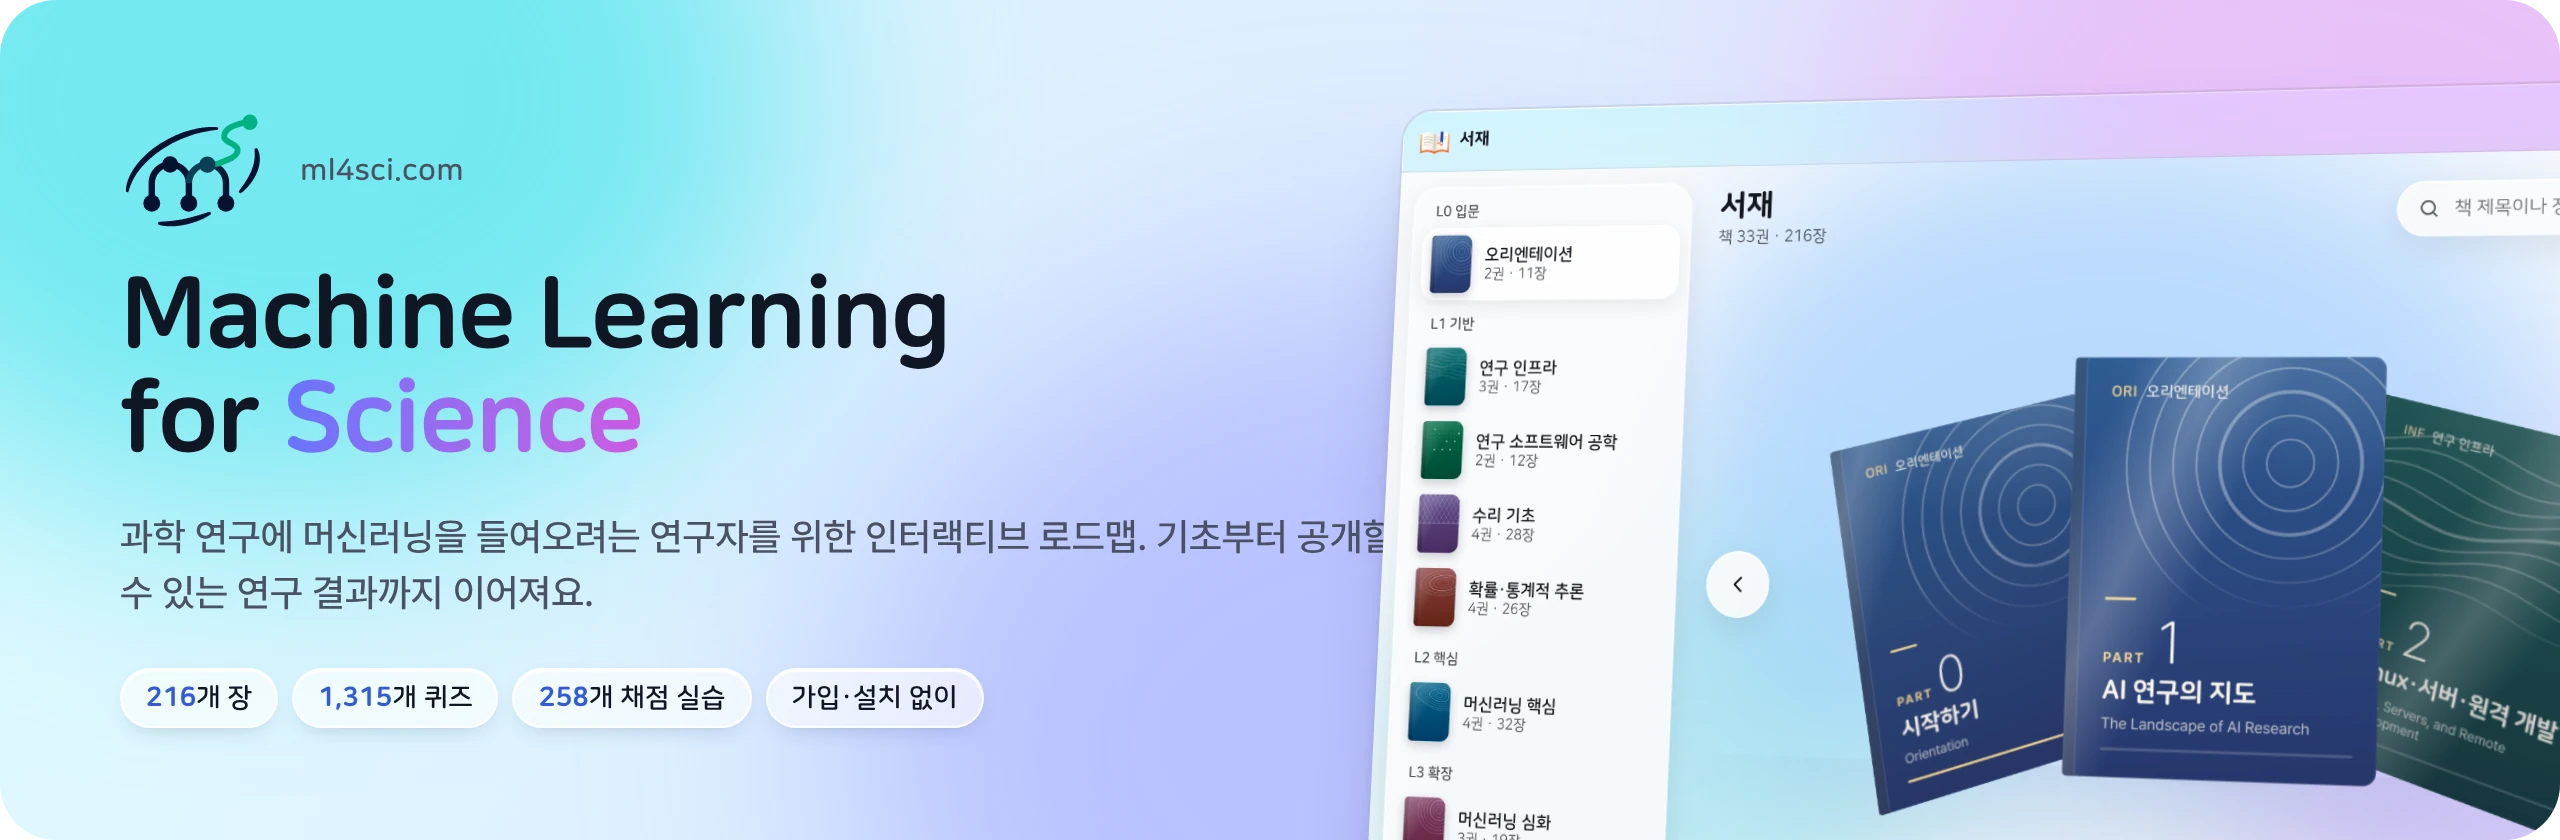
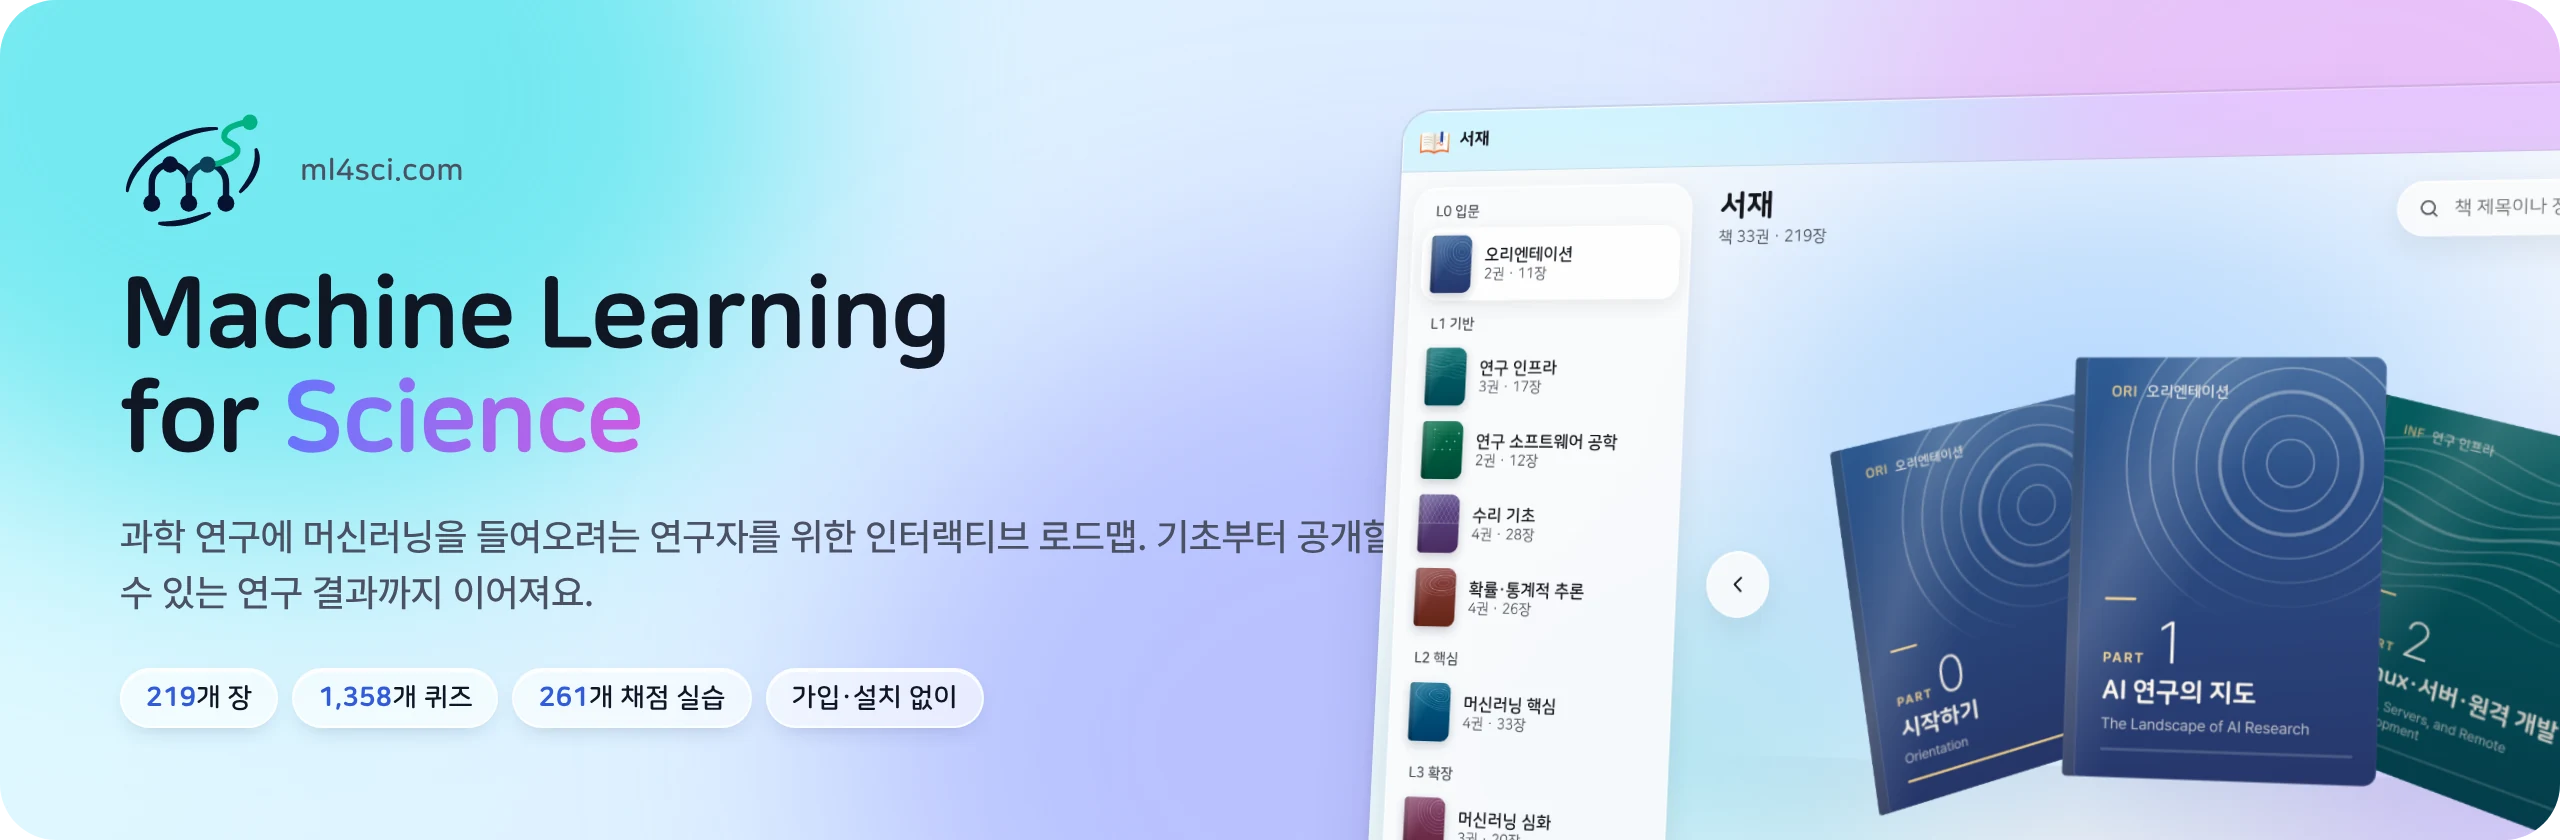
docs: update counts to 219 chapters, 1,358 quiz questions and 261 exercises

diff --git a/README.ko.md b/README.ko.md
@@ -11,9 +11,9 @@
 
 <p>
   <a href="https://ml4sci.com"><img alt="ml4sci.com에서 읽기" src="https://img.shields.io/badge/%EC%98%A8%EB%9D%BC%EC%9D%B8%EC%97%90%EC%84%9C%20%EC%9D%BD%EA%B8%B0-ml4sci.com-4f46e5?logo=bookstack&logoColor=white"></a>
-  <img alt="216개 장" src="https://img.shields.io/badge/%EC%9E%A5-216%EA%B0%9C-0284c7">
-  <img alt="퀴즈 1,315문항" src="https://img.shields.io/badge/%ED%80%B4%EC%A6%88-1%2C315%EB%AC%B8%ED%95%AD-7c3aed">
-  <img alt="자동 채점 실습 258개" src="https://img.shields.io/badge/%EC%9E%90%EB%8F%99%20%EC%B1%84%EC%A0%90%20%EC%8B%A4%EC%8A%B5-258%EA%B0%9C-059669?logo=python&logoColor=white">
+  <img alt="219개 장" src="https://img.shields.io/badge/%EC%9E%A5-219%EA%B0%9C-0284c7">
+  <img alt="퀴즈 1,358문항" src="https://img.shields.io/badge/%ED%80%B4%EC%A6%88-1%2C358%EB%AC%B8%ED%95%AD-7c3aed">
+  <img alt="자동 채점 실습 261개" src="https://img.shields.io/badge/%EC%9E%90%EB%8F%99%20%EC%B1%84%EC%A0%90%20%EC%8B%A4%EC%8A%B5-261%EA%B0%9C-059669?logo=python&logoColor=white">
   <br>
   <img alt="브라우저에서 실행" src="https://img.shields.io/badge/%EC%8B%A4%ED%96%89-%EB%B8%8C%EB%9D%BC%EC%9A%B0%EC%A0%80%EC%97%90%EC%84%9C-0f766e?logo=webassembly&logoColor=white">
   <img alt="가입 필요 없음" src="https://img.shields.io/badge/%EA%B0%80%EC%9E%85-%ED%95%84%EC%9A%94%20%EC%97%86%EC%9D%8C-d97706">
@@ -57,8 +57,8 @@
 |---|---|---|
 | **1&nbsp;·&nbsp;읽기** | 수식과 그림이 함께 있는 본문을 읽어요. 차례가 지금 읽는 곳을 따라와요. | `학습 목표 → 개념 → 실습 → 실패 사례 → 통과 기준` |
 | **2&nbsp;·&nbsp;만져&nbsp;보기** | 슬라이더와 실시간 그래프로 증명을 읽기 전에 먼저 감을 잡아요. | 본문 곳곳의 인터랙티브 그림 |
-| **3&nbsp;·&nbsp;코드** | 내장 편집기에서 Python을 짜고 *채점*을 누르면 테스트마다 통과 여부가 나와요. | 연습문제 258개, [Pyodide](https://pyodide.org)로 실행 |
-| **4&nbsp;·&nbsp;퀴즈** | 틀린 답마다 어떤 오해에서 나왔는지 짚어 주고, 틀린 문제는 복습 목록으로 다시 돌아와요. | 퀴즈 1,315문항과 복습 대기열 |
+| **3&nbsp;·&nbsp;코드** | 내장 편집기에서 Python을 짜고 *채점*을 누르면 테스트마다 통과 여부가 나와요. | 연습문제 261개, [Pyodide](https://pyodide.org)로 실행 |
+| **4&nbsp;·&nbsp;퀴즈** | 틀린 답마다 어떤 오해에서 나왔는지 짚어 주고, 틀린 문제는 복습 목록으로 다시 돌아와요. | 퀴즈 1,358문항과 복습 대기열 |
 
 ## ✨ 특징
 
@@ -68,7 +68,7 @@
 
 | | |
 |---|---|
-| 🧭 **장 모음이 아니라 로드맵** | 7단계 레이어에 12개 분야, 33부, 216개 장이 놓여 있어요. 장마다 먼저 읽을 장이 정해져 있어서 다음에 뭘 읽을지 늘 알 수 있어요. |
+| 🧭 **장 모음이 아니라 로드맵** | 7단계 레이어에 12개 분야, 33부, 219개 장이 놓여 있어요. 장마다 먼저 읽을 장이 정해져 있어서 다음에 뭘 읽을지 늘 알 수 있어요. |
 | 🐍 **브라우저에서 돌아가는 Python** | 코드 셀이 그 자리에서 Pyodide로 실행돼요(NumPy, SciPy, pandas, matplotlib, scikit-learn). PyTorch와 GPU 예제는 복사 단추와 함께 읽기 전용으로 보여 주고, 장마다 내려받는 실습 파일로 내 컴퓨터에서 돌려 볼 수 있어요. |
 | ✅ **자동 채점 연습문제** | 내장 코드 편집기에 *실행*과 *채점* 단추가 있고, 테스트마다 결과를 보여 줘요. 장의 실습 파일은 `.zip`으로도 받을 수 있어요. |
 | 🧠 **이유까지 알려 주는 퀴즈** | 틀린 답마다 그 밑에 깔린 오해를 설명해 주고, 틀린 문제는 복습 목록에 모여요. |
@@ -116,7 +116,7 @@
 
 ## 📈 진행 상황
 
-**1.0 버전이 한국어와 영어로 공개돼 있어요.** 216개 장, 퀴즈 1,315문항, 자동 채점 연습문제 258개를 두 언어 모두에서 볼 수 있어요. 책은 계속 다듬고 있어요. 장마다 검토하고 고치며, 제보받은 오류는 그 자리에서 바로잡아요.
+**1.0 버전이 한국어와 영어로 공개돼 있어요.** 219개 장, 퀴즈 1,358문항, 자동 채점 연습문제 261개를 두 언어 모두에서 볼 수 있어요. 책은 계속 다듬고 있어요. 장마다 검토하고 고치며, 제보받은 오류는 그 자리에서 바로잡아요.
 
 ## ❓ 자주 묻는 질문
 

diff --git a/README.md b/README.md
@@ -11,9 +11,9 @@
 
 <p>
   <a href="https://ml4sci.com/en/"><img alt="Read online at ml4sci.com" src="https://img.shields.io/badge/read%20online-ml4sci.com-4f46e5?logo=bookstack&logoColor=white"></a>
-  <img alt="216 chapters" src="https://img.shields.io/badge/chapters-216-0284c7">
-  <img alt="1,315 quiz questions" src="https://img.shields.io/badge/quiz%20questions-1%2C315-7c3aed">
-  <img alt="258 graded exercises" src="https://img.shields.io/badge/graded%20exercises-258-059669?logo=python&logoColor=white">
+  <img alt="219 chapters" src="https://img.shields.io/badge/chapters-219-0284c7">
+  <img alt="1,358 quiz questions" src="https://img.shields.io/badge/quiz%20questions-1%2C358-7c3aed">
+  <img alt="261 graded exercises" src="https://img.shields.io/badge/graded%20exercises-261-059669?logo=python&logoColor=white">
   <br>
   <img alt="Runs in your browser" src="https://img.shields.io/badge/runs%20in-your%20browser-0f766e?logo=webassembly&logoColor=white">
   <img alt="No sign-up" src="https://img.shields.io/badge/sign--up-not%20needed-d97706">
@@ -57,8 +57,8 @@ Every chapter is built around the same loop. You read an idea, try it with your 
 |---|---|---|
 | **1&nbsp;·&nbsp;Read** | Lessons with math, figures and an outline that tracks your place. | `Learning objectives → Concepts → Lab → Failure cases → Pass criteria` |
 | **2&nbsp;·&nbsp;Try** | Sliders and live plots let you test an idea before you read the proof. | Interactive figures throughout the text |
-| **3&nbsp;·&nbsp;Code** | Write Python in a built-in editor, press *Grade* and see each test pass or fail. | 258 exercises, run with [Pyodide](https://pyodide.org) |
-| **4&nbsp;·&nbsp;Check** | Concept quizzes explain the misconception behind every wrong answer, and missed questions come back for review. | 1,315 questions and a review queue |
+| **3&nbsp;·&nbsp;Code** | Write Python in a built-in editor, press *Grade* and see each test pass or fail. | 261 exercises, run with [Pyodide](https://pyodide.org) |
+| **4&nbsp;·&nbsp;Check** | Concept quizzes explain the misconception behind every wrong answer, and missed questions come back for review. | 1,358 questions and a review queue |
 
 ## ✨ Features
 
@@ -68,7 +68,7 @@ Every chapter is built around the same loop. You read an idea, try it with your 
 
 | | |
 |---|---|
-| 🧭 **A roadmap, not a pile of chapters** | 216 chapters in 33 parts and 12 tracks, arranged in 7 layers. Each chapter declares what it builds on, so you always know what to read next. |
+| 🧭 **A roadmap, not a pile of chapters** | 219 chapters in 33 parts and 12 tracks, arranged in 7 layers. Each chapter declares what it builds on, so you always know what to read next. |
 | 🐍 **Python in the browser** | Code cells run in place with Pyodide (NumPy, SciPy, pandas, matplotlib, scikit-learn). PyTorch and GPU examples are shown read-only with a copy button; run them on your own machine with each chapter's downloadable lab files. |
 | ✅ **Auto-graded exercises** | A built-in code editor with *Run* and *Grade* buttons and per-test results. Each chapter's lab files also download as a `.zip` to run locally. |
 | 🧠 **Quizzes with feedback** | Every wrong answer explains the misconception behind it, and missed questions go to a review queue. |
@@ -116,7 +116,7 @@ Twelve tracks are arranged in seven layers. A track builds only on tracks in the
 
 ## 📈 Status
 
-**Version 1.0 is live** in Korean and English. All 216 chapters, 1,315 quiz questions and 258 auto-graded exercises are online in both languages. The book keeps improving: chapters are reviewed and revised continuously, and reported errors are fixed in place.
+**Version 1.0 is live** in Korean and English. All 219 chapters, 1,358 quiz questions and 261 auto-graded exercises are online in both languages. The book keeps improving: chapters are reviewed and revised continuously, and reported errors are fixed in place.
 
 ## ❓ FAQ
 
